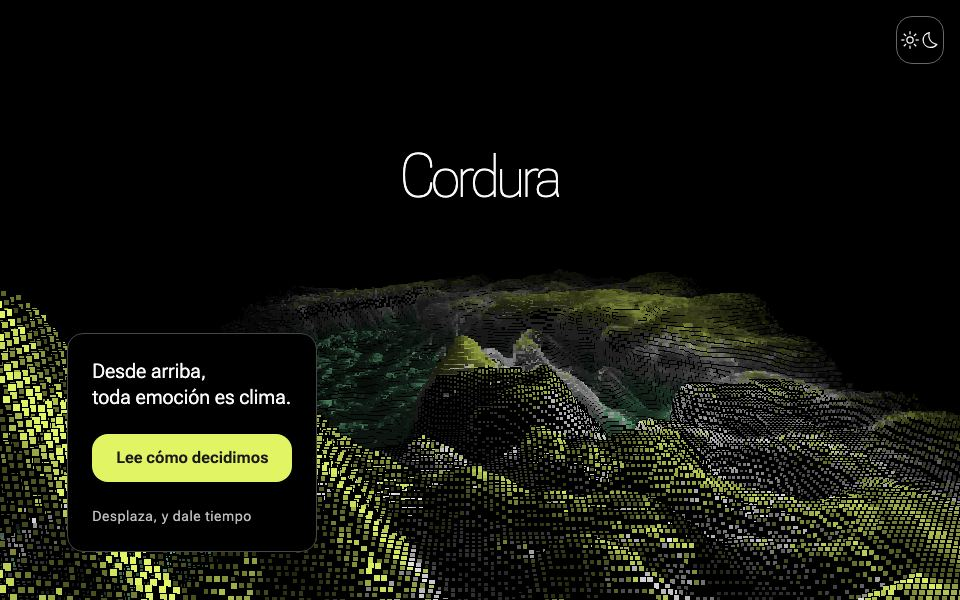
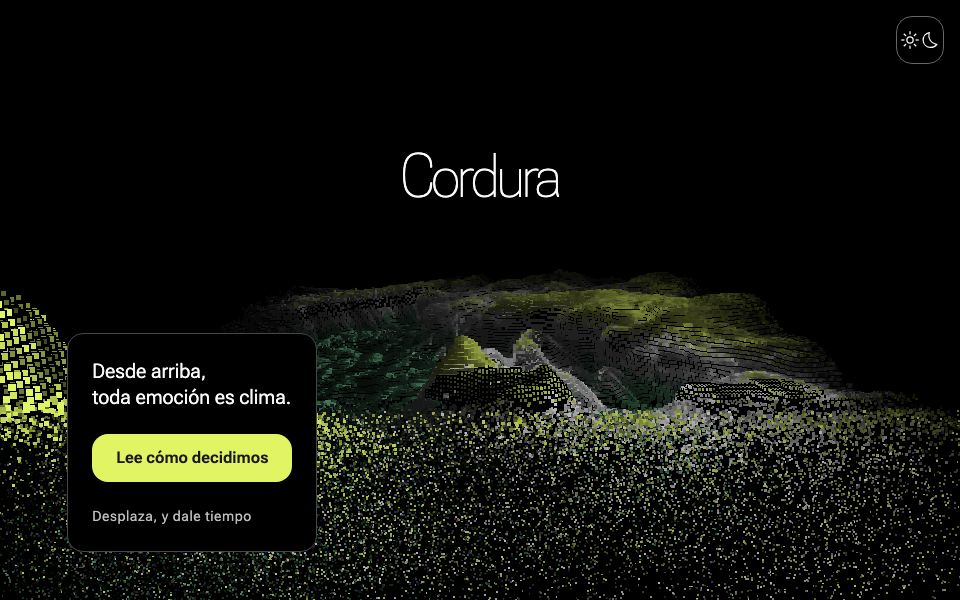
feat: arena bajo una línea, y nubes para Ensayo y Autómata
El sobrevuelo tiene un efecto opcional (arena): lo que queda bajo una línea de la pantalla se deshace en granos que flotan y vuelve a armarse al retroceder. Lo llevan las nubes de las tres entidades, cada una en sus Ejemplos.

Changed region(s): [[0.0, 0.66, 1.0, 1.0]]

diff --git a/site/recorrido.js b/site/recorrido.js
@@ -4,6 +4,8 @@
 // a light page, where it is darker), in one of the entity's three colors: the vault, the walls, the ground. What is far fades.
 // A scanned ground with no walls (`vuelo`: a sea of clouds, say) is flown over instead, low and looking a little down: its
 // three colors are its heights, its edges thin out into nothing, and the word is on the horizon.
+// With `arena`, whatever is below a line of the screen comes apart into sand that drifts, each grain a little late or a
+// little early, and comes together again, grain by grain, when the page is scrolled back and it rises past that line.
 (function () {
   var D = window.__ESCANEO, escena = document.querySelector('.recorrido'), lienzo = document.querySelector('.escaneo__lienzo');
   if (!D || !escena || !lienzo || !lienzo.getContext) return;
@@ -32,7 +34,7 @@
     MEDIO[col] = n ? q[0] / n : comun[0]; SUELO[col] = n ? q[1] / n : comun[1]; TECHO[col] = n ? q[2] / n : comun[2]; ANCHURA[col] = n ? q[3] / n : comun[3];
   }
   for (col = 0; col < C; col++) for (i = INICIO[col]; i < INICIO[col + 1]; i++) { var banda = (FIL[i] - TECHO[col]) / Math.max(1, SUELO[col] - TECHO[col]) + AZX[i] / 127 * 0.05; TIN[i] = banda < 0.34 ? 0 : banda < 0.86 ? 1 : 2; }
-  var VUELO = !!D.vuelo, HM = D.hondos / 2;
+  var VUELO = !!D.vuelo, ARENA = !!D.arena, HM = D.hondos / 2, reloj = 0, aLaVista = true;
   if (VUELO) {      // (flown over: its middle is the lattice's, and what counts is how high its tops are and how low its hollows)
     var alturas = new Uint32Array(D.filas + 1), cima = 0, hoya = D.filas, van = 0, alta = 0, media = 0; for (i = 0; i < N; i++) alturas[FIL[i]]++;
     for (i = 0; i <= D.filas; i++) { van += alturas[i]; if (van < N * 0.02) cima = i; if (van < N * 0.3) alta = i + 1; if (van < N * 0.72) media = i + 1; if (van < N * 0.98) hoya = i + 1; }
@@ -61,7 +63,8 @@
     if (palabra) { palabra.style.transform = 'none'; anchoPalabra = palabra.offsetWidth; altoPalabra = palabra.offsetHeight; }
     viste(); pide();
   }
-  function lee() { var r = escena.getBoundingClientRect(), largo = r.height - window.innerHeight; return largo > 0 ? Math.min(1, Math.max(0, -r.top / largo)) : 0; }
+  function lee() { var r = escena.getBoundingClientRect(), largo = r.height - window.innerHeight; aLaVista = r.bottom > 0 && r.top < window.innerHeight;      // (the sand drifts only while it is seen)
+    return largo > 0 ? Math.min(1, Math.max(0, -r.top / largo)) : 0; }
   function pide() { if (!pedido) pedido = requestAnimationFrame(cuadro); }
   function cubre(x0, y0, x1, y1, tinta) {
     x0 = x0 < 0 ? 0 : x0 | 0; y0 = y0 < 0 ? 0 : y0 | 0; x1 = x1 > W ? W : x1 | 0; y1 = y1 > H ? H : y1 | 0; if (x1 <= x0) return;
@@ -74,11 +77,12 @@
     if (quieto) { avance = meta; giro = alza = 0; suelta = 0; brio = 0; }
     else {
       avance += (meta - avance) * (1 - Math.exp(-dt * 6)); giro += (quiereGiro - giro) * (1 - Math.exp(-dt * 5)); alza += (quiereAlza - alza) * (1 - Math.exp(-dt * 5));
-      if (suelta > 0) suelta = Math.max(0, suelta - dt / 1.6); brio *= Math.exp(-dt / 0.5); if (brio < 0.01) brio = 0;
-      sigue = Math.abs(meta - avance) > 0.0004 || Math.abs(quiereGiro - giro) > 0.001 || Math.abs(quiereAlza - alza) > 0.001 || suelta > 0 || brio > 0;
+      reloj += dt; if (suelta > 0) suelta = Math.max(0, suelta - dt / 1.6); brio *= Math.exp(-dt / 0.5); if (brio < 0.01) brio = 0;
+      sigue = Math.abs(meta - avance) > 0.0004 || Math.abs(quiereGiro - giro) > 0.001 || Math.abs(quiereAlza - alza) > 0.001 || suelta > 0 || brio > 0 || (ARENA && aLaVista && !document.hidden);
     }
     var cx = DESDE + (HASTA - DESDE) * avance, cz = en(MEDIO, cx), cy = en(SUELO, cx) - OJOS, cg = Math.cos(giro), sg = Math.sin(giro), ca = Math.cos(alza + BAJA), sa = Math.sin(alza + BAJA), mx = W / 2, my = H / 2;
     var polvo = suelta * suelta * (3 - 2 * suelta), vuela = polvo * H * 0.9 / 127, alcance = H * 0.17, alcance2 = alcance * alcance, qx = px * escala, qy = py * escala, lejos = C * 0.22, fondoLejos = C * 0.75;
+    var arena = ARENA && !quieto, raya = H * 0.86, franja = H * 0.2, vuelo = H * 0.2, grano = Math.max(1, 1.9 * escala);
     pixeles.fill(0);
     for (var col = C - 1; col >= 0; col--) {
       var u = col + 0.5 - cx; if (u < -30) break; var alFondo = VUELO && col > C * 0.86 ? (C - col) / (C * 0.14) : 1;
@@ -89,6 +93,15 @@
         if (VUELO) { var orilla = Math.abs(HON[i] + 0.5 - HM) / HM + AZY[i] / 127 * 0.05, queda = (orilla > 0.7 ? Math.max(0, (1 - orilla) / 0.3) : 1) * alFondo; if (queda <= 0) continue; niebla *= queda; if (queda < 0.75) macizo = false; }
         if (polvo > 0) { x += AZX[i] * vuela; y += AZY[i] * vuela; }
         if (brio > 0) { var ex = x - qx, ey = y - qy, e2 = ex * ex + ey * ey; if (e2 < alcance2) { var e = Math.sqrt(e2) || 1, empuje = (1 - e / alcance); empuje = empuje * empuje * brio * alcance * 0.55; x += ex / e * empuje + AZX[i] * empuje * 0.004; y += ey / e * empuje + AZY[i] * empuje * 0.004; macizo = false; } }
+        if (arena && y > raya - franja) {      // (below the line: sand. How much of a grain it is, and where the wind has it)
+          var tarda = (AZX[i] + 127) / 254 * 0.55, sube = Math.min(1, Math.max(0, ((raya - y) / franja - tarda) / (1 - tarda))), hecho = sube * sube * (3 - 2 * sube), suelto = 1 - hecho;
+          if (suelto > 0.004) {
+            var fase = AZX[i] * 0.21 + AZY[i] * 0.13, lado0 = AZY[i] / 127;
+            x += (lado0 * vuelo + Math.sin(reloj * 0.55 + fase) * vuelo * 0.16) * suelto + Math.sin(hecho * 3.1416) * vuelo * 0.28 * (AZX[i] > 0 ? 1 : -1);
+            y += ((AZX[i] / 127 * 0.75 + 0.12) * vuelo + Math.cos(reloj * 0.45 + fase * 1.3) * vuelo * 0.14) * suelto;
+            macizo = false; k = grano + (k - grano) * hecho * hecho; niebla *= 0.8 + 0.2 * hecho;
+          }
+        }
         var medio = k / 2;
         if (k < 3.5) { cubre(x - medio, y - medio, x - medio + Math.max(1, k), y - medio + Math.max(1, k), TINTAS[TIN[i] * NIVELES + Math.round((0.1 + 0.9 * t) * niebla * (NIVELES - 1))]); continue; }
         if (macizo) cubre(x - medio, y - medio, x + medio + 1, y + medio + 1, FONDO);      // (what is behind it is not seen through it: the word waits at the way out)
@@ -121,6 +134,7 @@
   // (whoever reaches the entrance's link with the keyboard is taken back to the entrance, where it is seen)
   if (entrada) entrada.addEventListener('focusin', function () { if (lee() > 0.04) window.scrollTo(0, window.scrollY + escena.getBoundingClientRect().top); });
   if (menos.addEventListener) menos.addEventListener('change', pide);
+  document.addEventListener('visibilitychange', pide);
   new MutationObserver(function () { viste(); pide(); }).observe(document.documentElement, { attributes: true, attributeFilter: ['data-theme'] });
   if (document.fonts && document.fonts.ready) document.fonts.ready.then(mide);
 

diff --git a/artifact/project/Documentacion.md b/artifact/project/Documentacion.md
@@ -6,6 +6,11 @@ Lo último que cambió en ALMA, de lo más reciente a lo más antiguo. El detall
 
 ### 7 de octubre de 2026
 
+#### Arena bajo una línea
+
+- El sobrevuelo tiene un efecto opcional (`"arena": true`): lo que queda bajo una línea de la pantalla se deshace en arena que flota, cada grano a su tiempo, y vuelve a armarse al retroceder. Está escrito en el motor propio, sin librerías. Con movimiento reducido no hay arena.
+- Lo usan las nubes de las tres entidades (`entidades/escaneos/<entidad>-nubes.json`), cada una en sus Ejemplos.
+
 #### Un suelo escaneado, sobrevolado
 
 - Tercera clase de portada, el sobrevuelo (`"modo": "sobrevuelo"`): para un escaneo sin paredes, como un mar de nubes. Al desplazar se vuela bajo sobre él, sus tres colores son sus alturas, sus orillas se deshacen y el nombre de la entidad está en el horizonte.

diff --git a/docs/novedades.md b/docs/novedades.md
@@ -4,6 +4,11 @@ Lo último que cambió en ALMA, de lo más reciente a lo más antiguo. El detall
 
 ## 7 de octubre de 2026
 
+### Arena bajo una línea
+
+- El sobrevuelo tiene un efecto opcional (`"arena": true`): lo que queda bajo una línea de la pantalla se deshace en arena que flota, cada grano a su tiempo, y vuelve a armarse al retroceder. Está escrito en el motor propio, sin librerías. Con movimiento reducido no hay arena.
+- Lo usan las nubes de las tres entidades (`entidades/escaneos/<entidad>-nubes.json`), cada una en sus Ejemplos.
+
 ### Un suelo escaneado, sobrevolado
 
 - Tercera clase de portada, el sobrevuelo (`"modo": "sobrevuelo"`): para un escaneo sin paredes, como un mar de nubes. Al desplazar se vuela bajo sobre él, sus tres colores son sus alturas, sus orillas se deshacen y el nombre de la entidad está en el horizonte.
